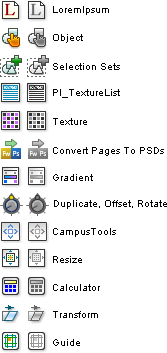
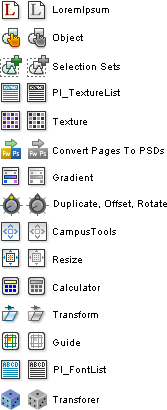
Signed-off-by: timur prokopiev <pojitonov@gmail.com>

diff --git a/index.html b/index.html
@@ -24,13 +24,16 @@
         <aside>
 			<h2>Release history:</h2>
 			<p>
+			<strong>1.1.1</strong><br />Added the<em> PI_FontList</em> and <em>Transformer Icons</em>.</p>
+
+<p>
 			<strong>1.1.0</strong><br />Added the<em> PI_TextureList</em> and <em>Texture Icons</em>.</p>
 			<p>
 			<strong>1.0.0</strong><br />Initial release.</p>
 			<h2>Package contents:</h2>
 			<p>
 			12 icons by Dave Hogue<br />
-			14 icons by Timur Prokopiev
+			18 icons by Timur Prokopiev
 			</p>
 
         </aside>
